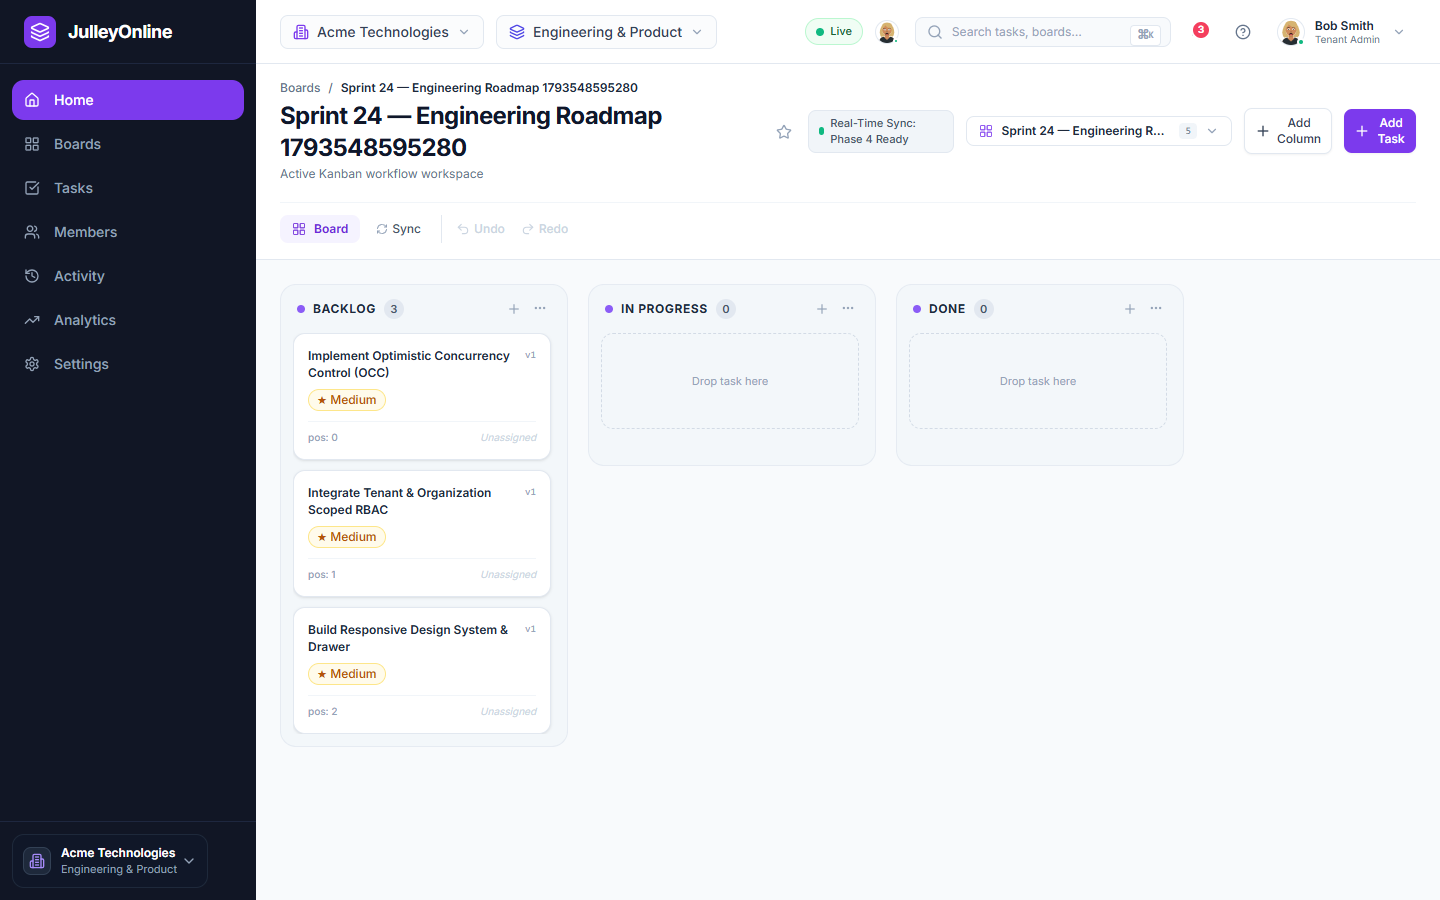
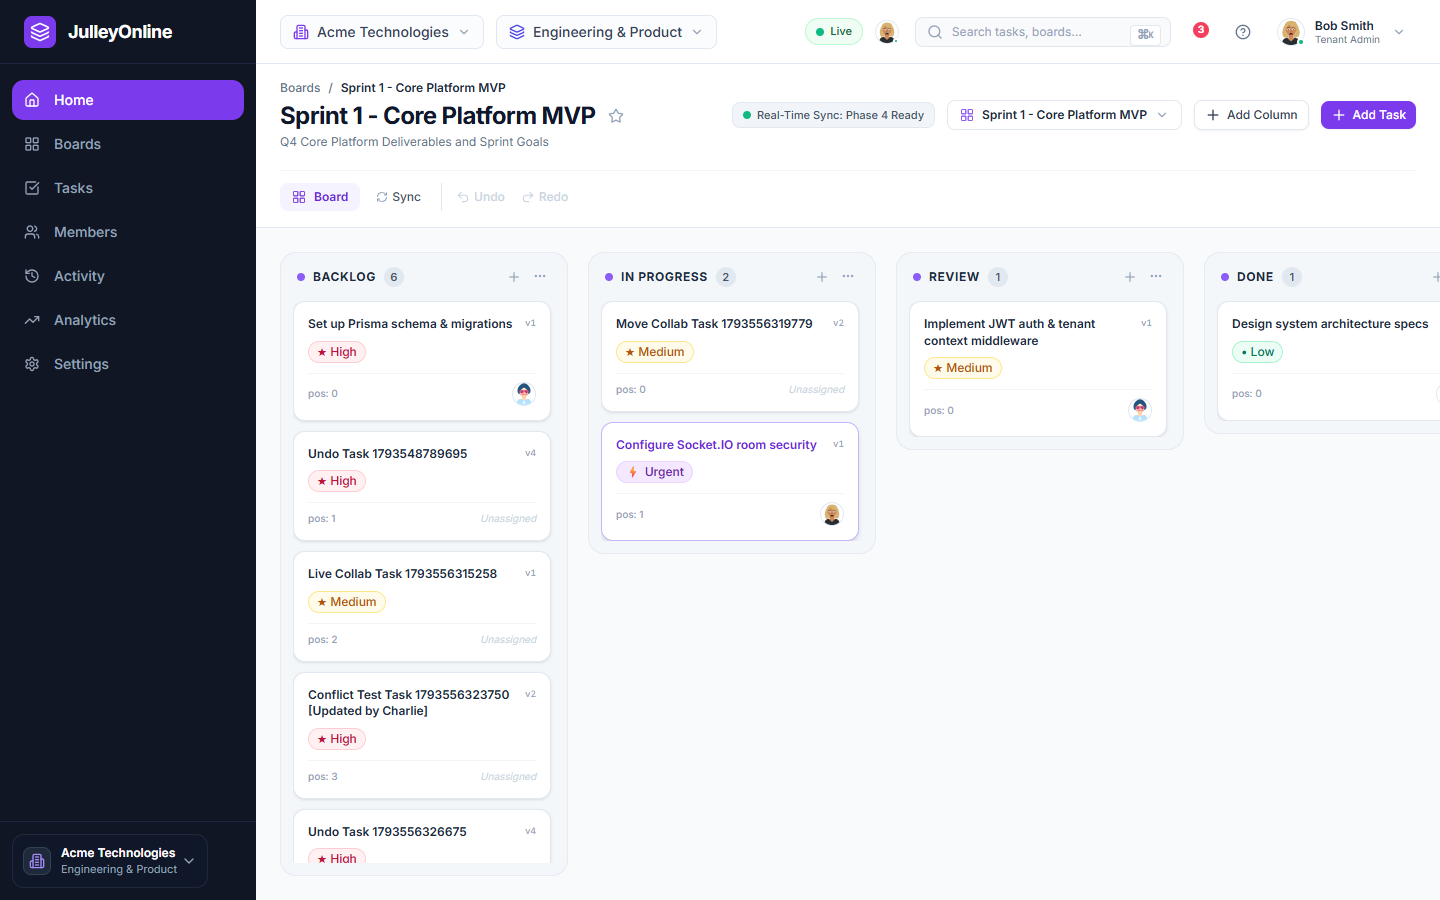
docs(screenshots): add settings danger zone deletion screenshots for Org Admin

diff --git a/frontend/tests/phase4-screenshots.spec.js b/frontend/tests/phase4-screenshots.spec.js
@@ -55,4 +55,23 @@ test.describe('JulleyOnline Phase 4 Screenshots Capture', () => {
       await contextCharlie.close();
     }
   });
+
+  test('Capture screenshots of Settings Danger Zone for Org Admin (Alice)', async ({ page }) => {
+    // 1. Log in as Alice (Org Admin)
+    await page.goto('/login');
+    await page.fill('input[type="email"]', 'alice@acme.com');
+    await page.fill('input[type="password"]', 'password123');
+    await page.click('button[type="submit"]');
+    await expect(page).toHaveURL(/\/(\?boardId=.*)?$/);
+
+    // 2. Settings: Organization tab
+    await page.goto('/settings');
+    await expect(page.getByRole('button', { name: 'Delete Organization' })).toBeVisible();
+    await page.screenshot({ path: path.join(docsDir, 'settings_org_admin_delete_org.png') });
+
+    // 3. Settings: Workspace tab
+    await page.getByRole('button', { name: 'Workspace (Tenant)' }).click();
+    await expect(page.getByRole('button', { name: 'Delete Workspace' })).toBeVisible();
+    await page.screenshot({ path: path.join(docsDir, 'settings_org_admin_delete_workspace.png') });
+  });
 });
